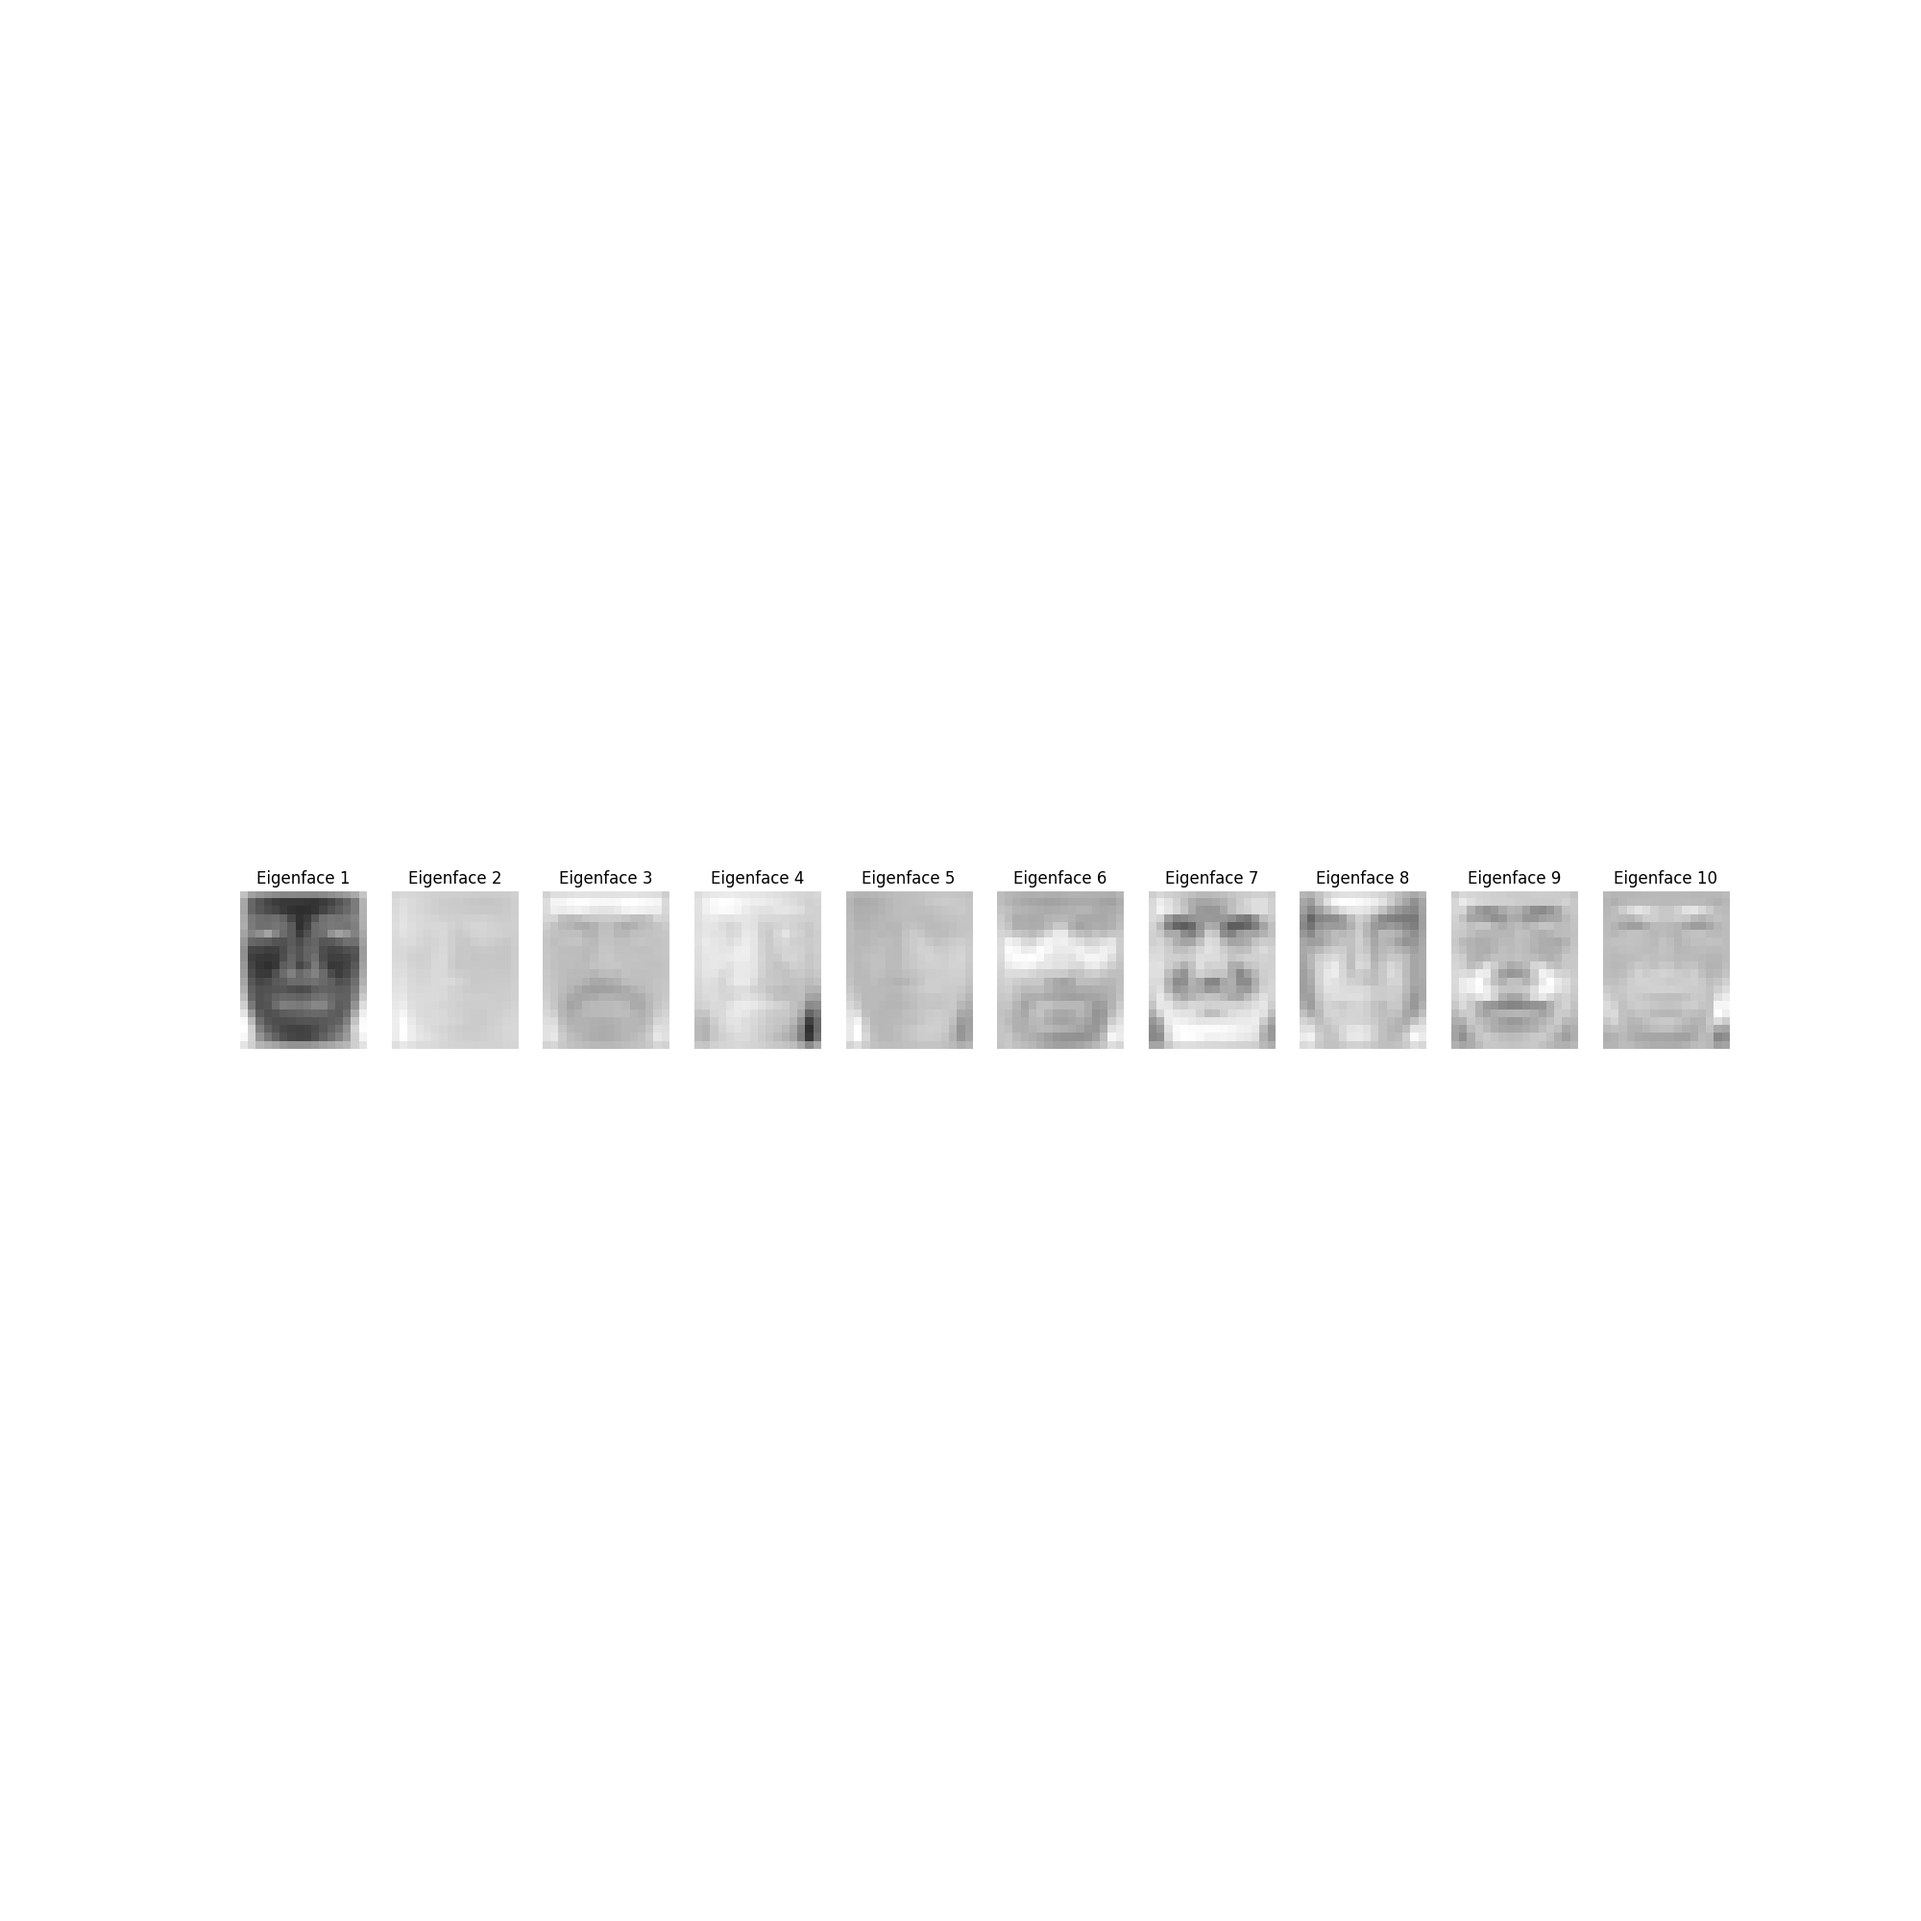
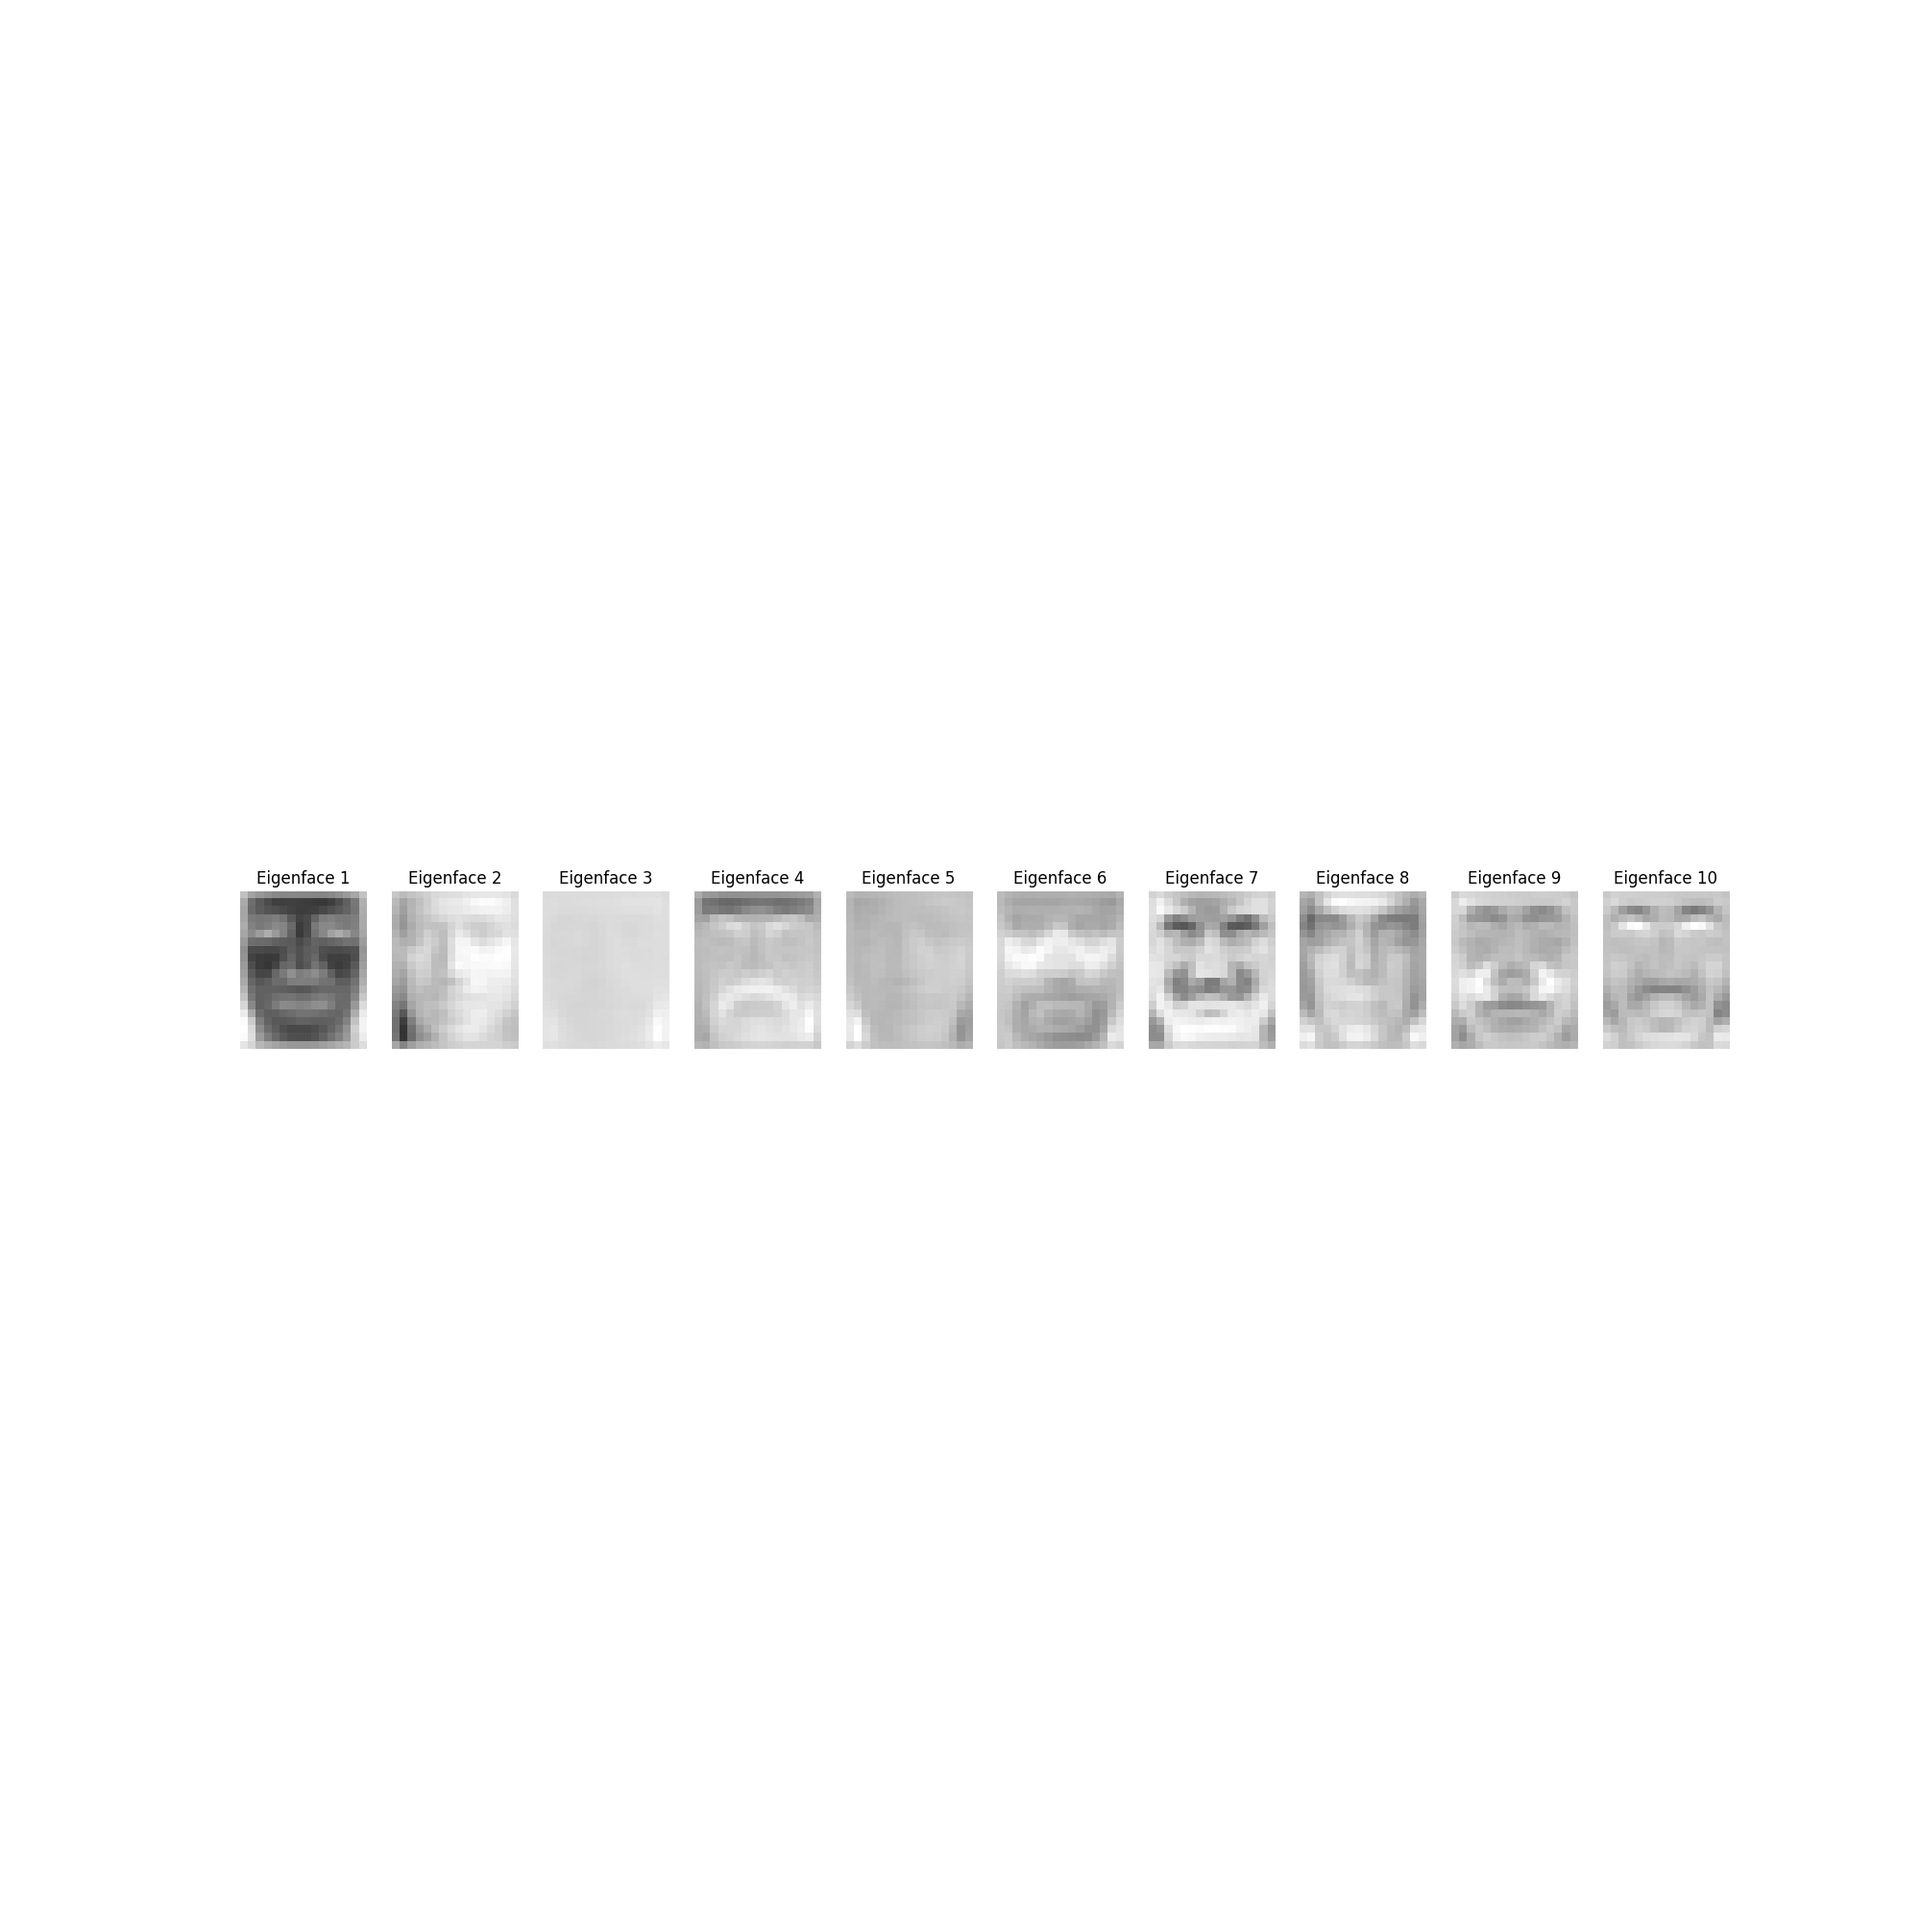
add fa2_L

Changed region(s): [[0.186, 0.465, 0.434, 0.558], [0.837, 0.465, 0.899, 0.558]]

diff --git a/pa_3/src/train.py b/pa_3/src/train.py
@@ -47,6 +47,7 @@ def main() -> None:
     datasets = {
         "fa_H": {"imgs": [], "dir": pathlib.Path("data/fa_H")},
         "fa2_H": {"imgs": [], "dir": pathlib.Path("data/fa_H")},
+        "fa_L": {"imgs": [], "dir": pathlib.Path("data/fa_L")},
         "fa2_L": {"imgs": [], "dir": pathlib.Path("data/fa_L")},
         "fb_H": {"imgs": [], "dir": pathlib.Path("data/fb_H")},
         "fb_L": {"imgs": [], "dir": pathlib.Path("data/fb_L")},
@@ -62,6 +63,16 @@ def main() -> None:
     mask = fa2_H_labels.astype(int) > 140
     datasets["fa2_H"]["imgs"] = [img for img, m in zip(datasets["fa2_H"]["imgs"], mask) if m]
     print(f"Removed {np.sum(~mask)} images from fa2_H")
+
+    # Remove the first 50 subjects from fa2_L
+    fa2_L_labels = []
+    for img_path in datasets["fa2_L"]["dir"].glob("*.pgm"):
+        person_id = img_path.stem.split("_")[0]
+        fa2_L_labels.append(person_id)
+    fa2_L_labels = np.array(fa2_L_labels)
+    mask = fa2_L_labels.astype(int) > 140
+    datasets["fa2_L"]["imgs"] = [img for img, m in zip(datasets["fa2_L"]["imgs"], mask) if m]
+    print(f"Removed {np.sum(~mask)} images from fa2_L")
 
     # Store average face for each dataset
     for name, dataset in datasets.items():
